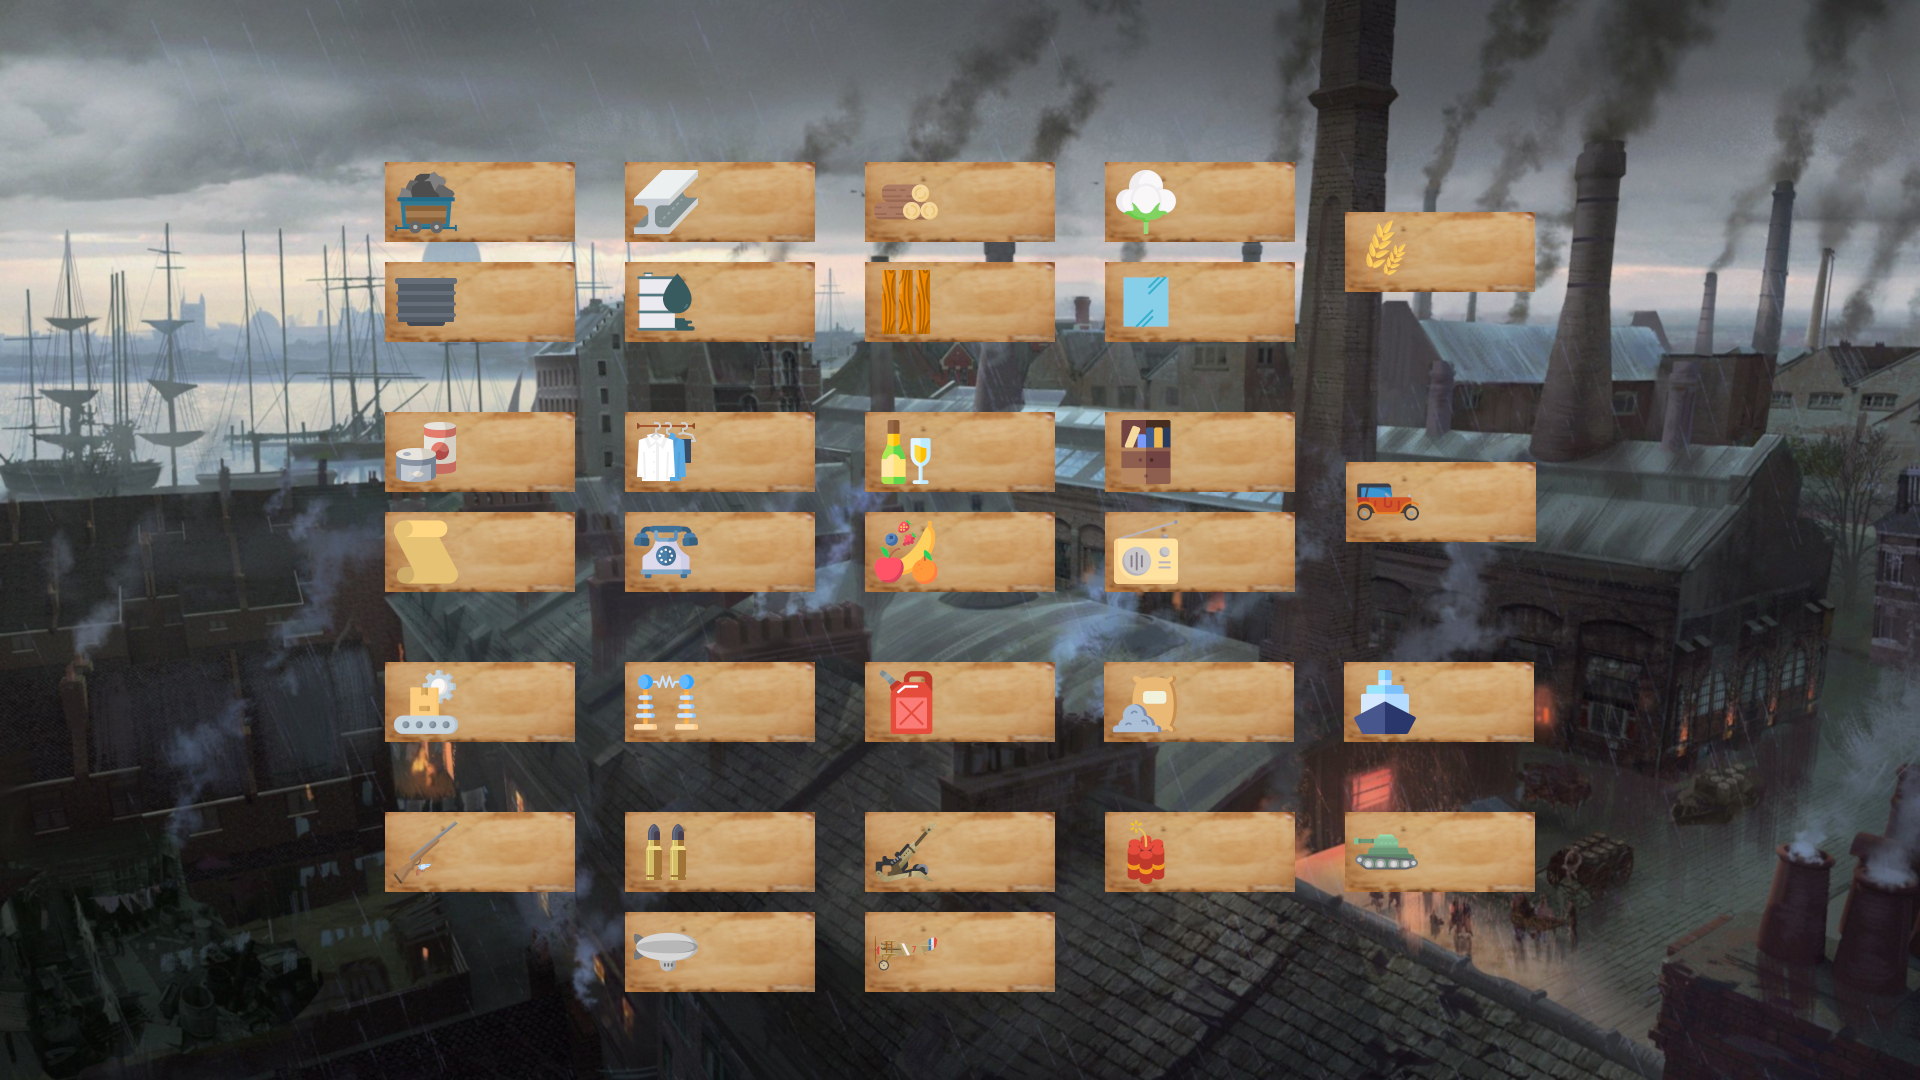
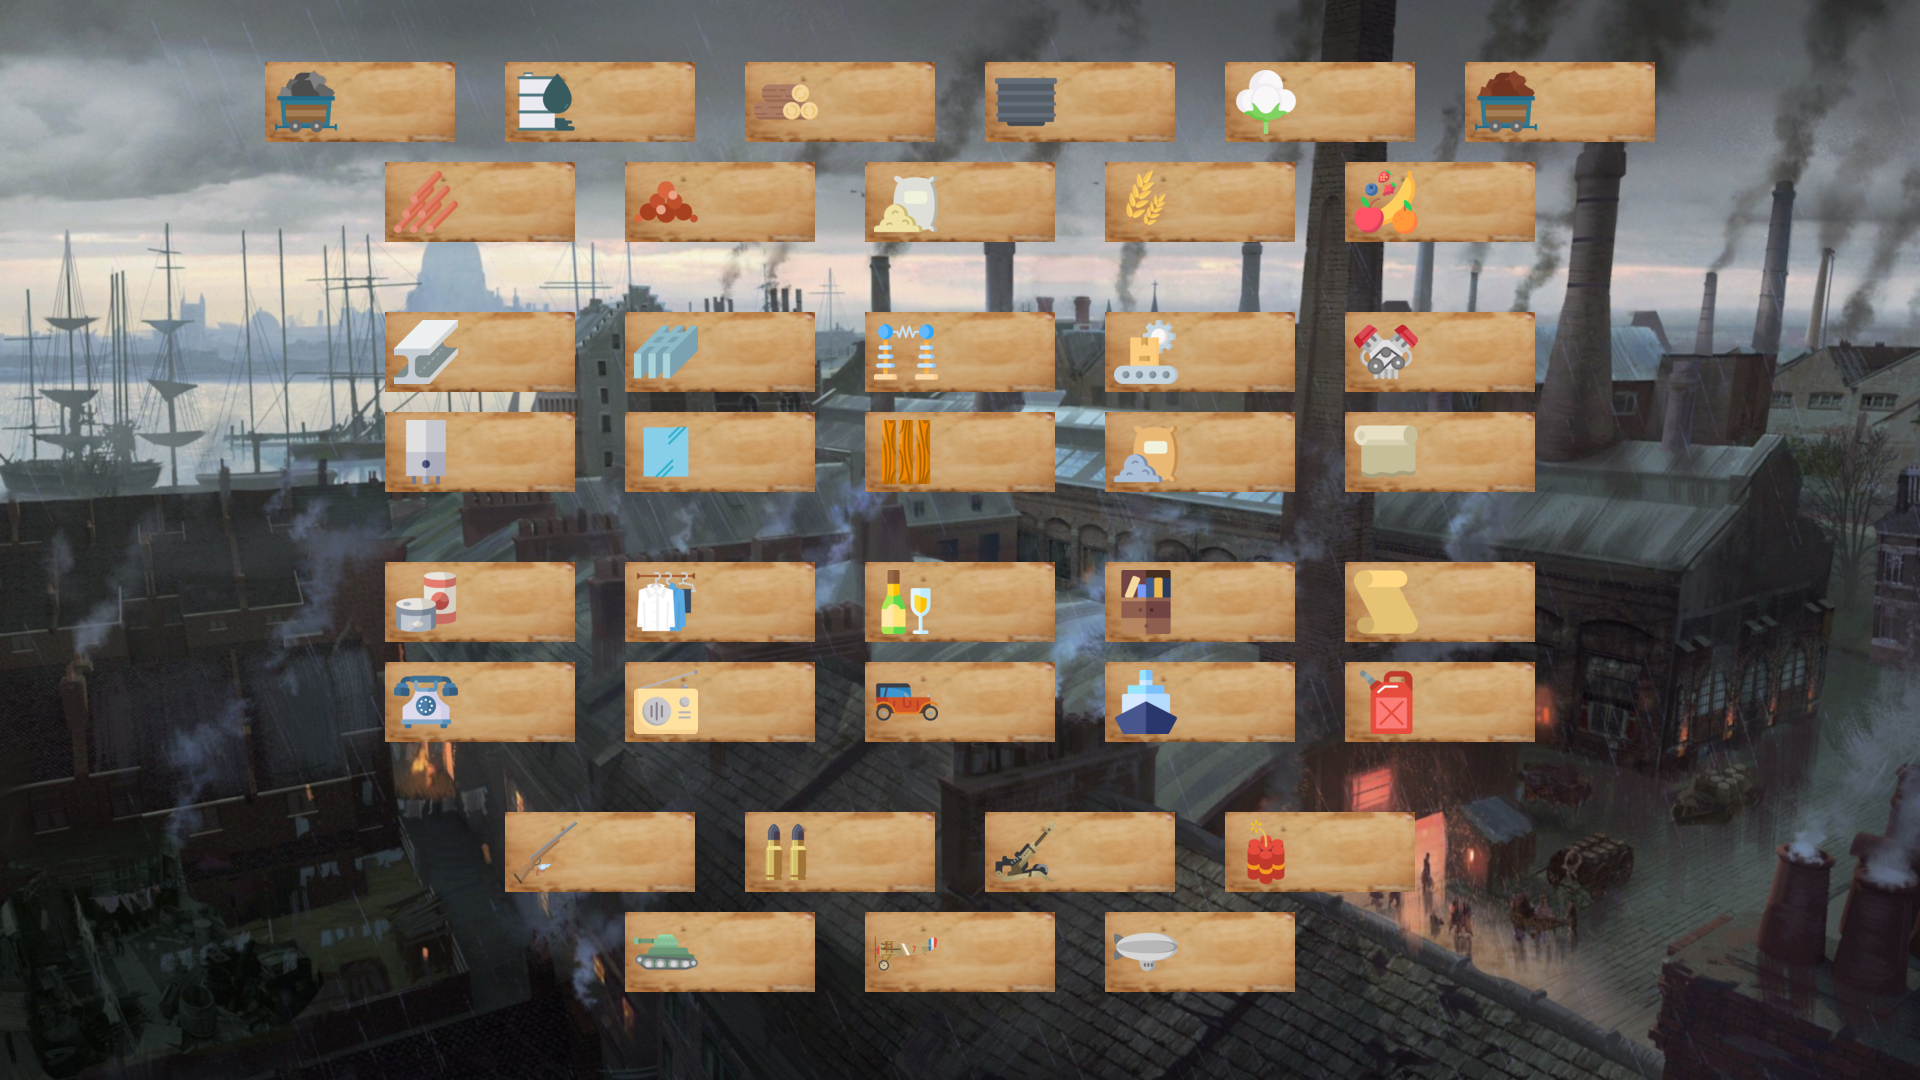
Show every good on the industry and state screens
The industry screen was painted with thirty plaques and the state panel with
eight resource icons, so the goods added since - copper, bauxite, nitrates,
steel, aluminium, engines, boilers and canvas - were held and traded but never
shown anywhere.

Both backgrounds are repainted. The industry screen now carries a plaque per
good, laid out in four blocks: what comes out of the ground, what industry
makes of it, what the population buys, and what the army takes. The state
panel grows a third column of raw resources.

The blank wooden plaque the new signs are built from was recovered from the
old background itself. Every plaque was drawn on the same piece of wood, and
the icons sit in different places on each, so the per-pixel mode across all
thirty-one plaque layers is the wood with the icons voted out.

The label tables move from fractions of the window to pixels of the art they
sit on, which is the coordinate system the positions were actually chosen in.
The state panel stops naming its goods one at a time and walks the leading run
of the enum instead, so the next raw good only needs its icon painted in.

Claude-Session: https://claude.ai/code/session_015cHDYJzyH42AWKUur19xwH

Changed region(s): [[0.125, 0.0306, 0.875, 0.7028], [0.1875, 0.7333, 0.8125, 0.9167], [0.3125, 0.8556, 0.375, 0.9167]]

diff --git a/IndustryScreen.cpp b/IndustryScreen.cpp
@@ -9,24 +9,37 @@
 #include <cstddef>
 
 namespace {
+/*Backgrounds/Industry1.png is painted at this size, with a wooden plaque per
+good and the right half of every plaque left blank for its number. Positions
+below are in the art's own pixels and are scaled to the window, so a number
+stays on its plaque whatever the window is.*/
+constexpr int ArtWidth = 1920;
+constexpr int ArtHeight = 1080;
+
 struct StockpileLabel {
     // Which good this label displays
     Good good;
 
-    // Position, as a fraction of the window's dimensions
-    double x;
-    double y;
+    // Where its number sits on the background art
+    int x;
+    int y;
 };
 
 /*Where each good is shown on the industry background. This is the single place
 that knows the layout - both the initial labels and every refresh walk this
-table, so the two can no longer drift apart.*/
-constexpr std::array<StockpileLabel, 30> Layout{{
-    {Good::Coal, 0.24, 0.165},         {Good::Iron, 0.365, 0.165},         {Good::Timber, 0.49, 0.165},      {Good::Cotton, 0.615, 0.165},     {Good::Rubber, 0.24, 0.26},         {Good::Oil, 0.365, 0.26},
-    {Good::Lumber, 0.49, 0.26},        {Good::Glass, 0.615, 0.26},         {Good::Grain, 0.74, 0.21},        {Good::Canned_food, 0.24, 0.395}, {Good::Clothes, 0.365, 0.395},      {Good::Liquor, 0.49, 0.395},
-    {Good::Furniture, 0.615, 0.395},   {Good::Paper, 0.24, 0.49},          {Good::Telephones, 0.365, 0.49},  {Good::Fruit, 0.49, 0.49},        {Good::Radios, 0.615, 0.49},        {Good::Automobiles, 0.74, 0.44},
-    {Good::Machine_parts, 0.24, 0.63}, {Good::Electric_gear, 0.365, 0.63}, {Good::Fuel, 0.49, 0.63},         {Good::Cement, 0.615, 0.63},      {Good::Merchant_ships, 0.74, 0.63}, {Good::Small_arms, 0.24, 0.765},
-    {Good::Ammunition, 0.365, 0.765},  {Good::Artillery, 0.49, 0.765},     {Good::Explosives, 0.615, 0.765}, {Good::Tanks, 0.74, 0.765},       {Good::Planes, 0.49, 0.86},         {Good::Airship, 0.365, 0.86},
+table, so the two can no longer drift apart. The rows below are the rows on the
+screen: the raw materials, then what industry makes of them, then what the
+population buys, then what the army takes. A good added here also needs its
+plaque painted onto the background.*/
+constexpr std::array<StockpileLabel, 38> Layout{{
+    {Good::Coal, 341, 78}, {Good::Oil, 581, 78}, {Good::Timber, 821, 78}, {Good::Rubber, 1061, 78}, {Good::Cotton, 1301, 78}, {Good::Iron, 1541, 78},
+    {Good::Copper, 461, 178}, {Good::Bauxite, 701, 178}, {Good::Nitrates, 941, 178}, {Good::Grain, 1181, 178}, {Good::Fruit, 1421, 178},
+    {Good::Steel, 461, 328}, {Good::Aluminum, 701, 328}, {Good::Electric_gear, 941, 328}, {Good::Machine_parts, 1181, 328}, {Good::Engines, 1421, 328},
+    {Good::Boilers, 461, 428}, {Good::Glass, 701, 428}, {Good::Lumber, 941, 428}, {Good::Cement, 1181, 428}, {Good::Canvas, 1421, 428},
+    {Good::Canned_food, 461, 578}, {Good::Clothes, 701, 578}, {Good::Liquor, 941, 578}, {Good::Furniture, 1181, 578}, {Good::Paper, 1421, 578},
+    {Good::Telephones, 461, 678}, {Good::Radios, 701, 678}, {Good::Automobiles, 941, 678}, {Good::Merchant_ships, 1181, 678}, {Good::Fuel, 1421, 678},
+    {Good::Small_arms, 581, 828}, {Good::Ammunition, 821, 828}, {Good::Artillery, 1061, 828}, {Good::Explosives, 1301, 828},
+    {Good::Tanks, 701, 928}, {Good::Planes, 941, 928}, {Good::Airship, 1181, 928},
 }};
 } // namespace
 
@@ -35,7 +48,7 @@ IndustryScreen::IndustryScreen(MainWindow& mw, Country* Pl) : Screen(mw), Player
     auto [Width, Height] = mw.GetWindowDimensions();
 
     for(const auto& [good, x, y] : Layout) {
-        AddLabel<Label>(mw, std::to_string(Player->Stock[good]), FontSize::Heading, int(Width * x), int(Height * y));
+        AddLabel<Label>(mw, std::to_string(Player->Stock[good]), FontSize::Heading, Width * x / ArtWidth, Height * y / ArtHeight);
     }
 }
 

diff --git a/StatePreview.cpp b/StatePreview.cpp
@@ -6,6 +6,34 @@
 #include "MainWindow.h"
 #include "PlayerController.h"
 
+#include <cstddef>
+
+namespace {
+/*Backgrounds/StatePreview.png is painted at 384x486 and hung in the bottom
+left corner of a 1920x1080 window, so a pixel on the parchment is a pixel on
+that window. The numbers below are in those pixels and are scaled to whatever
+the window is, which keeps them on the icons they belong to.*/
+constexpr int ArtWidth = 1920;
+constexpr int ArtHeight = 1080;
+
+// Where the top of the parchment lands, 0.55 of the way down the window
+constexpr int PanelTop = 594;
+
+/*The raw goods a state produces, painted as three columns of icons with the
+amount beside each. The order is the order of the enum, so a raw good added to
+the leading run of Good only needs its icon painted into the next free slot.*/
+constexpr int GridLeft = 16;
+constexpr int GridTop = 54;
+constexpr int GridColumns = 3;
+constexpr int ColumnPitch = 120;
+constexpr int RowPitch = 54;
+constexpr int IconSize = 48;
+constexpr int NumberGap = 10;
+
+// The population is counted under the grid, in line with its first column
+constexpr int PopulationTop = 270;
+} // namespace
+
 StatePreview::StatePreview(MainWindow& mw, unsigned id, std::string StateName, std::string controller, PlayerController* PC, const std::array<short int, RawGoodCount>& res, int pop, std::string Factories[4],
                            std::function<void()> CloseFunc, std::function<void(std::unique_ptr<Screen>, std::string)> changeScreenFunc) : Screen(mw), ChangeScreenFunc2(changeScreenFunc), Id(id) {
     auto [Width, Height] = mw.GetWindowDimensions();
@@ -13,15 +41,16 @@ StatePreview::StatePreview(MainWindow& mw, unsigned id, std::string StateName, s
     std::string str = "Flags/" + Controller;
 
     AddLabel<Label>(mw, StateName.c_str(), FontSize::Heading, int(0.04 * Width), int(Height * .55), Width);
-    AddLabel<Label>(mw, std::to_string(res[GoodIndex(Good::Timber)]).c_str(), FontSize::Heading, int(Width * 0.03), int(Height * 0.6));
-    AddLabel<Label>(mw, std::to_string(res[GoodIndex(Good::Cotton)]).c_str(), FontSize::Heading, int(Width * 0.03), int(Height * 0.65));
-    AddLabel<Label>(mw, std::to_string(res[GoodIndex(Good::Fruit)]).c_str(), FontSize::Heading, int(Width * 0.03), int(Height * 0.7));
-    AddLabel<Label>(mw, std::to_string(res[GoodIndex(Good::Grain)]).c_str(), FontSize::Heading, int(Width * 0.03), int(Height * 0.75));
-    AddLabel<Label>(mw, std::to_string(res[GoodIndex(Good::Coal)]).c_str(), FontSize::Heading, int(Width * 0.13), int(Height * 0.6));
-    AddLabel<Label>(mw, std::to_string(res[GoodIndex(Good::Iron)]).c_str(), FontSize::Heading, int(Width * 0.13), int(Height * 0.65));
-    AddLabel<Label>(mw, std::to_string(res[GoodIndex(Good::Oil)]).c_str(), FontSize::Heading, int(Width * 0.13), int(Height * 0.7));
-    AddLabel<Label>(mw, std::to_string(res[GoodIndex(Good::Rubber)]).c_str(), FontSize::Heading, int(Width * 0.13), int(Height * 0.75));
-    AddLabel<Label>(mw, std::to_string(pop).c_str(), FontSize::Heading, int(Width * 0.03), int(Height * 0.8));
+
+    // The number beside every raw good's icon, walking the grid a row at a time
+    constexpr int NumberLeft = GridLeft + IconSize + NumberGap;
+    for(std::size_t i = 0; i < RawGoodCount; ++i) {
+        const int x = NumberLeft + int(i % GridColumns) * ColumnPitch;
+        const int y = PanelTop + GridTop + int(i / GridColumns) * RowPitch;
+        AddLabel<Label>(mw, std::to_string(res[i]).c_str(), FontSize::Heading, Width * x / ArtWidth, Height * y / ArtHeight);
+    }
+
+    AddLabel<Label>(mw, std::to_string(pop).c_str(), FontSize::Heading, Width * NumberLeft / ArtWidth, Height * (PanelTop + PopulationTop) / ArtHeight);
 
     AddImage<Image>(mw, "Backgrounds/StatePreview.png", 0, int(Height * .55), int(Width * 0.2), int(Height * 0.45));
 
